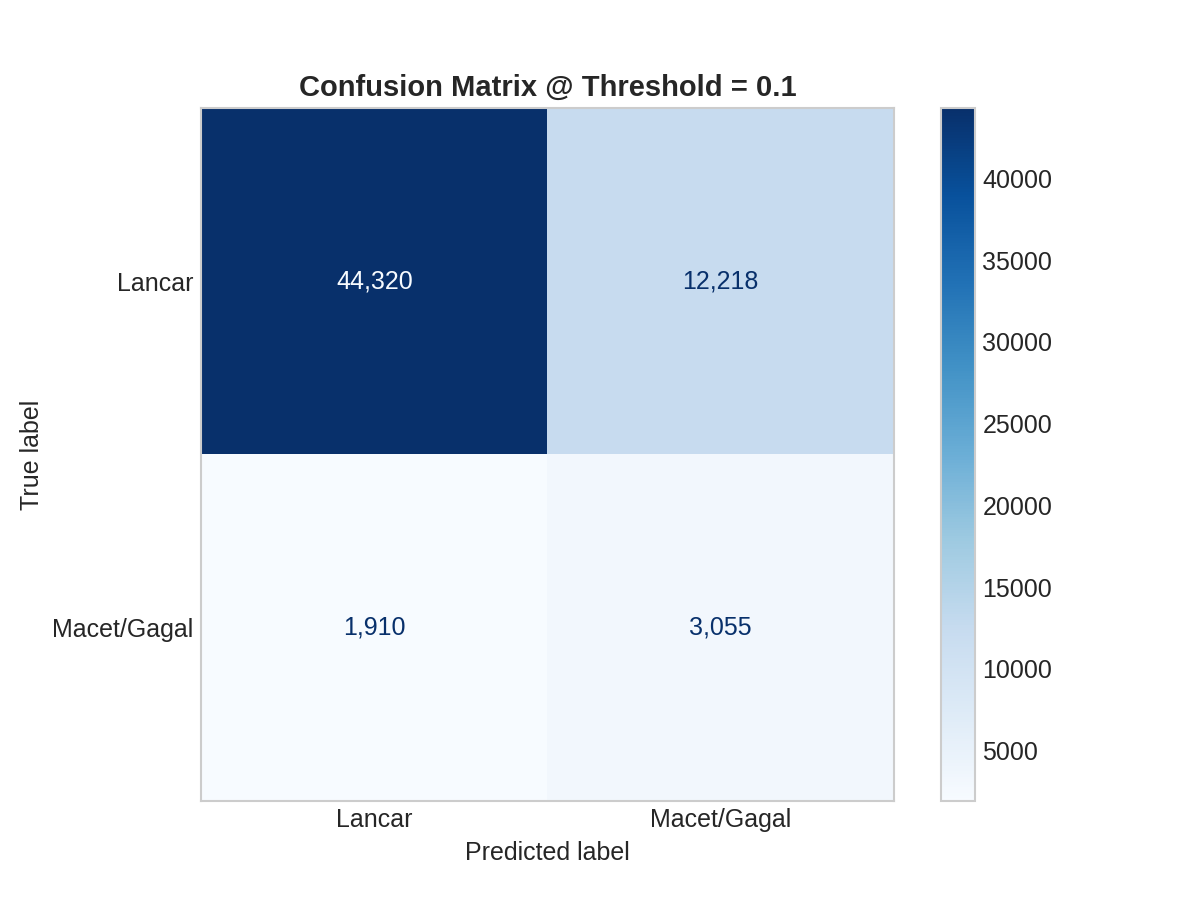
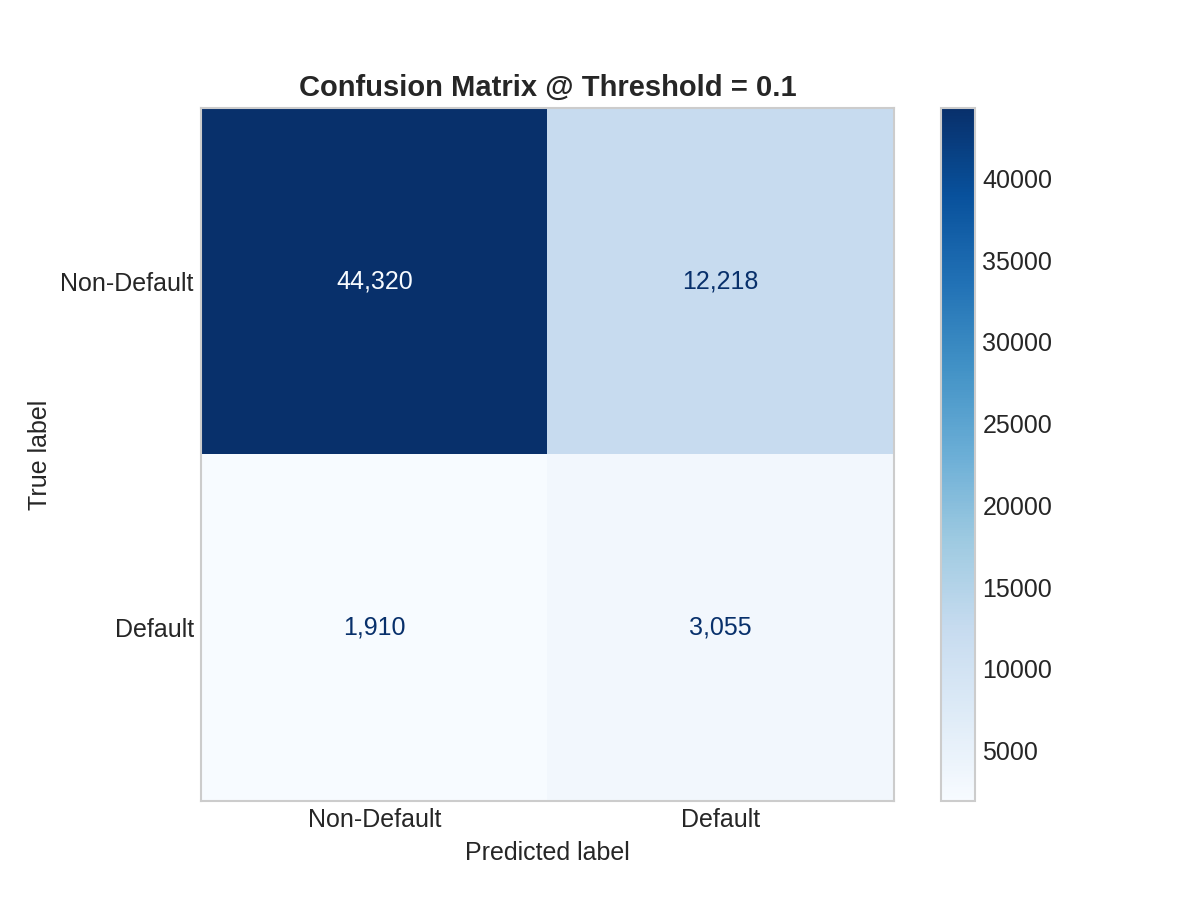
refactor: update notebook analysis, visualization, and docs
- Update main notebook with enhanced specific analysis
- Refresh confusion matrix visualization
- Add requirements.txt for project dependencies
- Add data source reference in data/dataset.txt
- Update README.md documentation

diff --git a/README.md b/README.md
@@ -1,1 +1,128 @@
-# FINAL PROJECT HCI
+# Credit Default Risk Prediction — Home Credit Indonesia
+
+![Project Status](https://img.shields.io/badge/Status-Stable-success)
+![Python](https://img.shields.io/badge/Python-3.x-blue)
+![License](https://img.shields.io/badge/License-MIT-green)
+
+## 1. Project Title & Brief Description
+
+**Credit Default Risk Prediction**
+
+This project aims to develop a robust, end-to-end **Machine Learning** model to predict credit default risk for Home Credit Indonesia. The core problem addressed is the dilemma between **minimizing Non-Performing Loans (NPL)** and **maximizing revenue potential**. This solution goes beyond binary predictions (Default/Non-Default) by providing calibrated risk probabilities, enabling the business to set dynamic approval thresholds based on financial strategy and profitability targets.
+
+## 2. Key Features
+
+- **Business-Centric EDA**: Goes beyond standard charting by analyzing the financial impact of each feature.
+- **Advanced Feature Engineering**: Complex aggregation strategies for relational data (e.g., credit bureau records, installment history, cash balances) to capture comprehensive customer behavior.
+- **Memory-Efficient Checkpointing**: A mechanism to save intermediate steps in Parquet format, allowing processing of large datasets (~8GB RAM requirement) without losing progress upon kernel restarts.
+- **Profitability Simulation**: A custom module that translates technical metrics (like ROC-AUC) into estimated financial value (IDR), bridging the gap between Data Science and business decision-making.
+- **Imbalanced Data Handling**: Optimization using appropriate evaluation metrics (ROC-AUC, Precision-Recall) to handle the target class imbalance (~8% default rate).
+
+## 3. Tech Stack
+
+Here are the main technologies and libraries used in this project:
+
+- **Programming Language**: Python 3.x
+- **Data Manipulation**: Pandas (v2.3.3), NumPy (v2.2.6)
+- **Data Storage**: PyArrow (v22.0.0) - for fast Parquet file operations.
+- **Visualization**: Matplotlib (v3.10.8), Seaborn (v0.13.2)
+- **Machine Learning**: Scikit-Learn (v1.8.0)
+  - _Models_: Logistic Regression, Random Forest, HistGradientBoostingClassifier.
+  - _Preprocessing_: ColumnTransformer, OneHotEncoder, StandardScaler, OrdinalEncoder.
+
+## 4. Project Structure
+
+```
+📦 HOME-CREDIT-RISK-SCORING
+ ┣ 📂 data/                         # Raw data storage folder (CSV)
+ ┃ ┣ 📜 application_train.csv       # Main training dataset
+ ┃ ┣ 📜 bureau.csv                  # Credit history data from other bureaus
+ ┃ ┗ 📜 ... (other CSV files)
+ ┣ 📂 outputs/                      # Outputs generated by the notebook
+ ┃ ┣ 📂 figures/                    # Saved plots and visualizations
+ ┃ ┣ 📜 train_master.parquet        # Checkpoint: Processed training data
+ ┃ ┣ 📜 test_master.parquet         # Checkpoint: Processed testing data
+ ┃ ┗ 📜 submission.csv              # Final prediction submission
+ ┣ 📜 HCI_Credit_Default_Risk_prediction.ipynb  # Main Notebook (Full Workflow)
+ ┣ 📜 requirements.txt              # Python package dependencies
+ ┗ 📜 README.md                     # Project documentation
+```
+
+### Workflow
+
+```mermaid
+graph TD
+    A[Load Raw Data] --> B{Schema & Data Check}
+    B --> C[Data Cleaning & Preprocessing]
+    C --> D[Feature Engineering]
+    D --> E[Bureau & Installments Aggregation]
+    E --> F[Save Checkpoints .parquet]
+    F --> G[Model Training]
+    G --> H{Evaluation}
+    H --> I[ROC-AUC & Calibration Analysis]
+    H --> J[Profitability/Business Simulation]
+```
+
+## 5. Prerequisites & Installation
+
+### Prerequisites
+
+Before running this project, ensure you have installed:
+
+- **Python 3.8+**
+- **Jupyter Notebook** or an IDE supporting `.ipynb` (like VS Code, JupyterLab).
+
+### Installation Steps
+
+1.  **Clone the Repository** (if using git):
+
+    ```bash
+    git clone https://github.com/b1n0r10n/home-credit-risk-scoring.git
+    cd home-credit-risk-scoring
+    ```
+
+2.  **Install Dependencies**:
+    It is recommended to use a _virtual environment_.
+
+    ```bash
+    pip install -r requirements.txt
+    ```
+
+3.  **Data Preparation**:
+    - Download the Home Credit Default Risk dataset.
+    - Ensure all CSV files (e.g., `application_train.csv`, `bureau.csv`, etc.) are placed inside the `data/` folder.
+
+## 6. Usage
+
+The project is executed via a single main Jupyter Notebook that covers the entire workflow.
+
+1.  Open your terminal or command prompt.
+2.  Launch Jupyter Notebook:
+    ```bash
+    jupyter notebook
+    ```
+3.  Open the file `HCI_Credit_Default_Risk_prediction.ipynb`.
+4.  **Cache Configuration**:
+    In the initial cells of the notebook, you can set the `USE_CACHE` variable:
+    - `USE_CACHE = True` (Default): Uses _checkpoint_ files (parquet) if available, speeding up execution time by skipping heavy _feature engineering_ steps.
+    - `USE_CACHE = False`: Forces the notebook to re-process all data from scratch (Raw CSV).
+5.  Execute all cells sequentially (_Run All_).
+6.  Analysis results, plots, and predictions will be automatically saved in the `outputs/` folder.
+
+## 7. Contribution
+
+Contributions are welcome! If you'd like to improve this project:
+
+1.  Fork this repository.
+2.  Create a new feature branch (`git checkout -b feature-new`).
+3.  Commit your changes (`git commit -m 'Add XYZ feature'`).
+4.  Push to the branch (`git push origin feature-new`).
+5.  Create a Pull Request.
+
+## 8. License
+
+This project is distributed under the **MIT License**.
+
+---
+
+_Created for Final Project HCI - Home Credit Indonesia Credit Risk Scoring._
